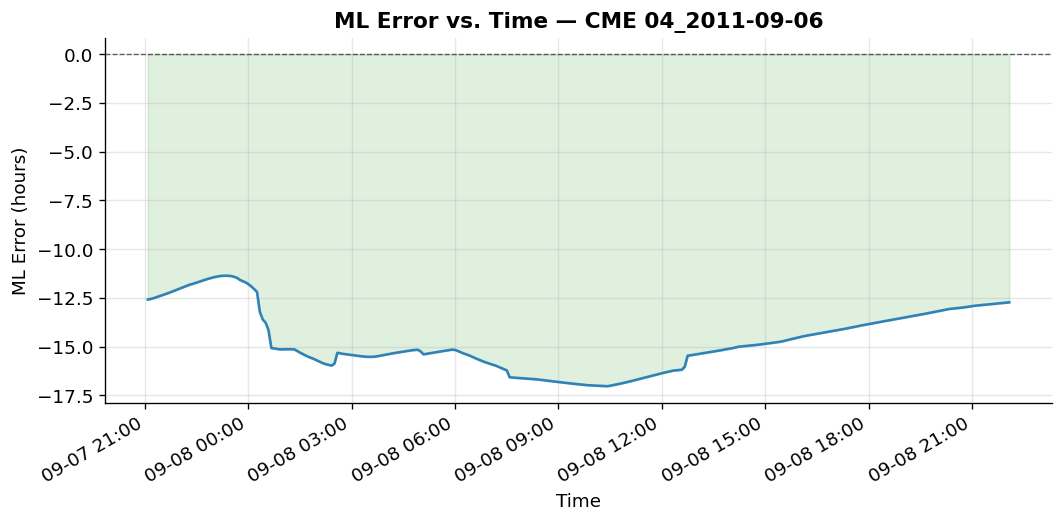
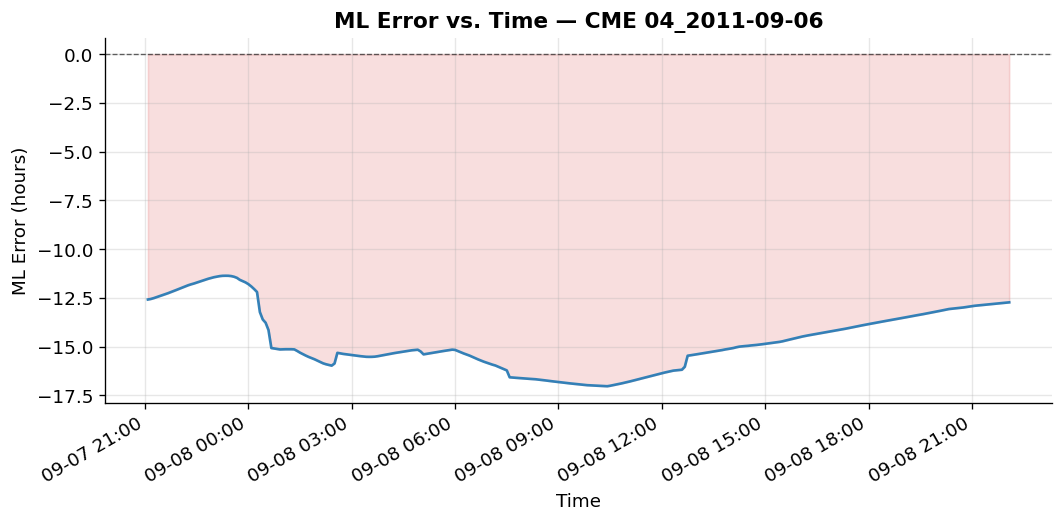
commiting on Aug31 8:01 am

diff --git a/scripts/simulation_post_processing/ImprovingCMEs2/sequential_plots.py b/scripts/simulation_post_processing/ImprovingCMEs2/sequential_plots.py
@@ -51,8 +51,8 @@ def plot_single_cme(cme_id: str, df: pl.DataFrame, save: bool = True, show: bool
     ax.plot(time, err, color="#1f77b4", lw=1.6, alpha=0.9)
     ax.axhline(0, color="black", lw=0.8, ls="--", alpha=0.6)
 
-    ax.fill_between(time, err, 0, where=(err >= 0), color="#d62728", alpha=0.15)
-    ax.fill_between(time, err, 0, where=(err < 0), color="#2ca02c", alpha=0.15)
+    ax.fill_between(time, err, 0, where=(err >= 0), color="#2ca02c", alpha=0.15)
+    ax.fill_between(time, err, 0, where=(err < 0), color="#d62728", alpha=0.15)
 
     ax.set_title(f"ML Error vs. Time — CME {cme_id}", fontsize=13, fontweight="bold")
     ax.set_xlabel("Time")
@@ -98,10 +98,10 @@ def plot_all_cmes_grid(cmes, ncols=3):
         time = df["Time"].to_list()
         err = df["ML_error"].to_numpy()
 
-        ax.plot(time, err, lw=1.3, color="#2ca02c")
+        ax.plot(time, err, lw=1.3, color="#1f77b4")
         ax.axhline(0, color="gray", lw=0.7, ls="--")
-        ax.fill_between(time, err, 0, where=(err >= 0), color="#d62728", alpha=0.15)
-        ax.fill_between(time, err, 0, where=(err < 0), color="#2ca02c", alpha=0.15)
+        ax.fill_between(time, err, 0, where=(err >= 0), color="#2ca02c", alpha=0.15)
+        ax.fill_between(time, err, 0, where=(err < 0), color="#d62728", alpha=0.15)
         ax.set_title(cme_id, fontsize=10)
         ax.tick_params(axis="x", labelrotation=30, labelsize=7)
         ax.tick_params(axis="y", labelsize=8)
@@ -118,11 +118,11 @@ def plot_all_cmes_grid(cmes, ncols=3):
         for j in range(len(cmes), len(axes)):
             fig.delaxes(axes[j])
 
-    fig.suptitle("ML Error Evolution Across All CME Events", fontsize=15, fontweight="bold", y=1.02)
-    fig.text(0.5, -0.01, "Time", ha="center", fontsize=11)
-    fig.text(-0.005, 0.5, "ML Error (hours)", va="center", rotation="vertical", fontsize=11)
+    fig.suptitle("ML Error Evolution Across All CME Events", fontsize=30, fontweight="bold", y=1.02)
+    fig.text(0.5, -0.01, "Time", ha="center", fontsize=16)
+    fig.text(-0.005, 0.5, "ML Error (hours)", va="center", rotation="vertical", fontsize=16)
     fig.tight_layout()
-    fig.savefig(OUT_DIR / "all_cmes_grid.png", bbox_inches="tight", dpi=150)
+    fig.savefig(OUT_DIR / "all_cmes_grid.png", bbox_inches="tight", dpi=300)
     plt.close(fig)
 
 
@@ -131,8 +131,20 @@ def plot_all_cmes_grid(cmes, ncols=3):
 #    line up on one axis (great for spotting systematic trends)
 # ---------------------------------------------------------------
 def plot_overlay_normalized(cmes):
+    # Okabe-Ito colorblind-safe palette (8 colors), cycled with
+    # distinct linestyle/marker combos to safely cover 13 categories.
+    cb_colors = [
+        "#0072B2",  # blue
+        "#E69F00",  # orange
+        "#009E73",  # bluish green
+        "#CC79A7",  # reddish purple
+        "#D55E00",  # vermillion
+        "#56B4E9",  # sky blue
+        "#F0E442",  # yellow
+        "#000000",  # black
+    ]
+
     fig, ax = plt.subplots(figsize=(10, 6))
-    cmap = plt.get_cmap("tab20")
 
     for i, cme_id in enumerate(cmes):
         try:
@@ -143,9 +155,14 @@ def plot_overlay_normalized(cmes):
         err = df["ML_error"].to_numpy()
         t0 = time[0]
         hours_elapsed = np.array([(t - t0).total_seconds() / 3600 for t in time])
-        ax.plot(hours_elapsed, err, label=cme_id, color=cmap(i % 20), lw=1.4, alpha=0.85)
 
-    ax.axhline(0, color="black", lw=1, ls="--", alpha=0.6)
+        color = cb_colors[i % len(cb_colors)]
+
+        ax.plot(hours_elapsed, err, label=cme_id, color=color,
+                markevery=max(1, len(hours_elapsed) // 12),
+                markersize=5, lw=1.6, alpha=0.9)
+
+    ax.axhline(0, color="black", lw=1, ls="--", alpha=0.5)
     ax.set_xlabel("Hours since sequential run start")
     ax.set_ylabel("ML Error (hours)")
     ax.set_title("ML Error Trajectories — All CMEs Overlaid", fontsize=13, fontweight="bold")
@@ -166,6 +183,6 @@ if __name__ == "__main__":
             print(f"Missing file for {cme_id}, skipping.")
 
     plot_all_cmes_grid(cmes)
-    plot_overlay_normalized(cmes)
+    # plot_overlay_normalized(cmes)
 
     print(f"All figures saved to: {OUT_DIR.resolve()}")
